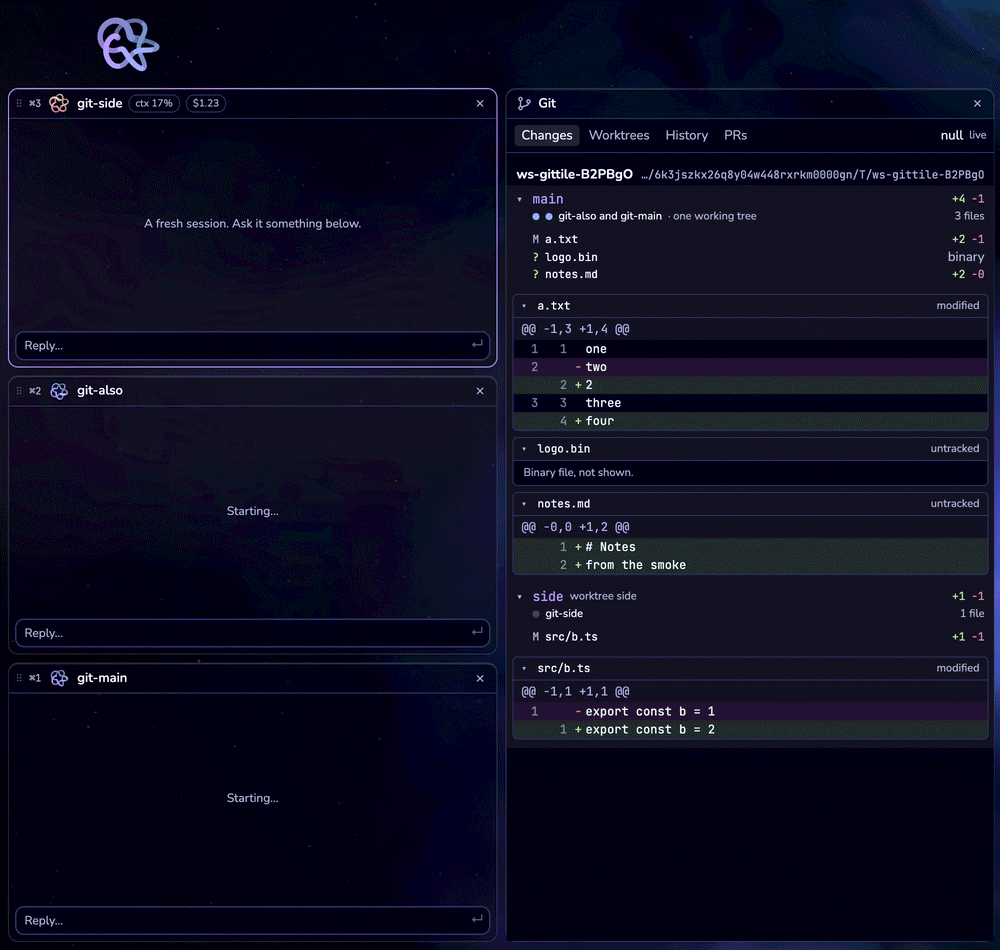
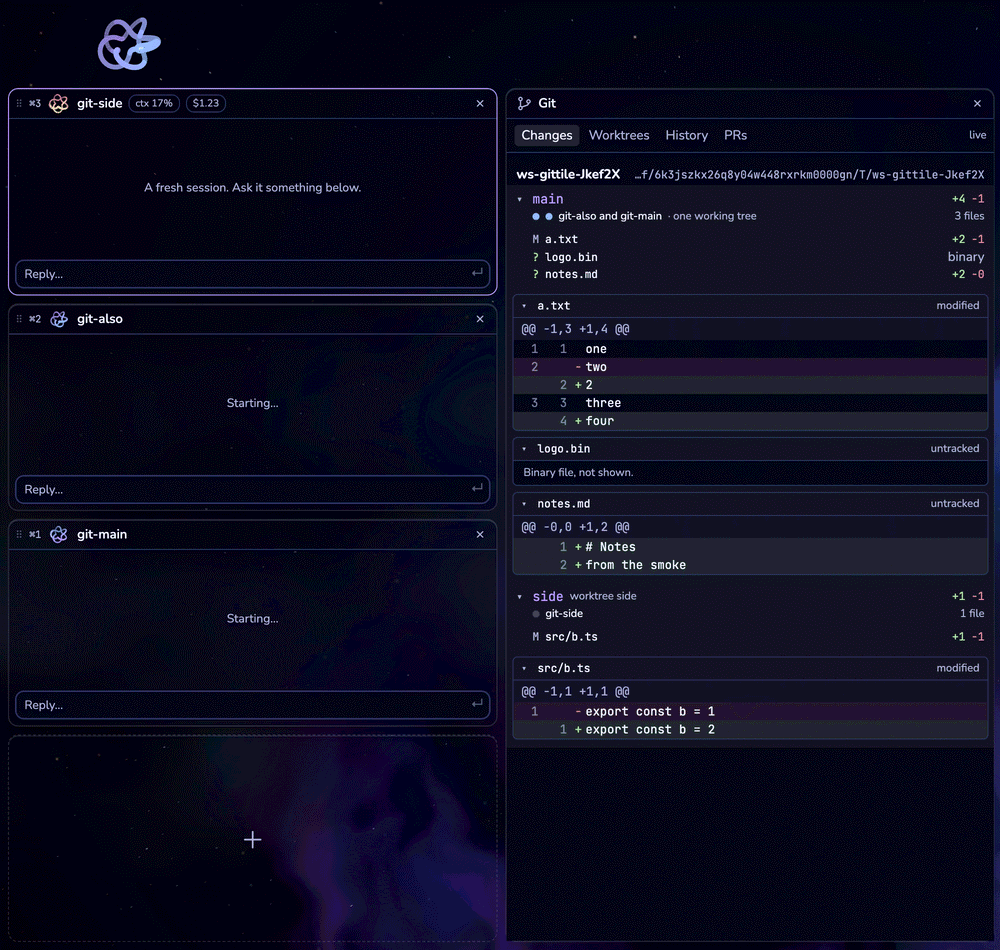
Docs: the UI fixes, and the README's and page's screenshots retaken with Wikipedia at the top right

diff --git a/docs/progress/2026-11-10-ui-fixes.md b/docs/progress/2026-11-10-ui-fixes.md
@@ -1,0 +1,171 @@
+# Progress: 10 Nov 2026, UI fixes from Colin's report
+
+One agent session, in a git worktree from `main` at `f788d03`, beside another doing packaging and
+the "Install update" button. Six things Colin reported: Wikipedia at the top right, the Wikipedia
+tile's needless "done", the window that would not drag (and drags that selected text across
+tiles), session tiles the height of the other column's tiles with deck's live preview, dropping
+images on a session, and the wheel over a tile scrolling nothing.
+
+Checks at the end: see the last section.
+
+## 1. Wikipedia at the top right
+
+- `src/shared/column.ts`: `DEFAULT_ORDER = ['wikipedia']` and `firstColumn(legacy)`. The tile
+  catalog is in folder order (git, reminders, wikipedia), so Wikipedia came last. A profile whose
+  settings have never held a column gets `order: ['wikipedia']`, so Wikipedia is first and the
+  rest follow in catalog order (`shared/order.ts` `arrange`). A profile that already has a column
+  in settings, or had one in the window's old localStorage, is left as it was.
+- `App.tsx`: the first-start path (settings had no column) goes through `firstColumn`.
+- `test/column.test.ts`: a new profile draws `wikipedia, git, reminders`; an old one is untouched.
+- Screenshots retaken: `docs/assets/app.png` (smoke's `WORKSHOP_SHOT_TILES`, with the BMW Mini of
+  17 Dec 2018 by the lead's temporary patch, reverted, not committed) and `docs/assets/changes.png`
+  (`WORKSHOP_SHOT_GIT`'s `pane-dark-window.png`), the latter because the session column changed.
+  Both show only the throwaway smoke profile: smoke session names and temp folders.
+
+## 2. The places editor's "done"
+
+- `tiles/wikipedia/dist/wiki.js`: `placesExit(places)`: the editor's own button is drawn only on
+  first run ("not now", which saves the empty list so the tile does not ask again); with a place
+  saved there is none. Esc and the × in the search line still close it.
+- `tile.js`: choosing a place (a click on a hit, or Enter) saves it AND closes the editor. ↑ and ×
+  on a saved place keep it open. `tile.css`: the units pill takes the free space instead.
+- Tested as shipped (`test/wikipedia.test.ts`), and in smoke: first run offers "not now", choosing
+  Lisbon closes the editor, reopened with a city saved it has no button, Esc closes it.
+
+## 3. The window's drag strip, and selection
+
+**Cause of the drag.** `.app` is the drag region and `.app > *` makes every child no-drag. The
+tile layer (`TileLayer.tsx`, the box the tile webviews are placed in) is a child of `.app` and is
+`position: fixed; inset: 0`, so it was a no-drag rectangle over the whole window, top bar
+included. A press in the bar then reached the page and started a text selection. Found by
+measuring: `-webkit-app-region` IS inherited in Chromium (checked in a bare Electron 44 window:
+children of a drag element compute `drag`), and the keyword `none` is not accepted; `initial` is.
+
+- `styles.css` (new block at the end): `.app > .tile-layer { -webkit-app-region: initial }`, so the
+  layer and the pages in it are no region at all; the pages lie over the columns, which are
+  no-drag. `.app > .topbar` drags between its controls and `.topbar > *` do not (deck's rule), so
+  the other agent's new button there is covered without a change.
+- **Selection** (same block): `body` is `user-select: none`; text is selectable in a conversation
+  (`.chat`), the preview pane's body, inputs, textareas and contenteditable. xterm handles its
+  own. A press in one conversation (`main.tsx`, a capture listener) marks it and puts
+  `ws-selecting` on the root until the button comes up; while it is there every other `.chat` is
+  `user-select: none`, so a drag cannot run its selection on into the tiles below.
+- Smoke (`src/main/smoke-ui.ts`): every element's computed `-webkit-app-region` laid over each
+  other in document order, as Electron builds the window's region (drag adds, no-drag takes
+  away), sampled every 12 px across the bar at y 44 and every 40 px at y 4 and y 80: the empty bar
+  is all drag, the bar's controls all no-drag, the center column no-drag, the tile layer `none`,
+  and `elementFromPoint` in the empty bar is `.app` itself. Computed `user-select` on the body, the
+  bar, both kinds of tile head, the launcher and the +: none; on a conversation, its prose, the
+  prompt bar and the launcher's field: text. A mousedown in one conversation makes the other
+  `none`, mouseup gives it back.
+- **Needs a real pointer:** the smoke window is hidden, so nobody has dragged the window or
+  selected across tiles with a mouse yet. Colin: drag by the empty bar, by the Knot at the top
+  left, and between the bar's buttons; drag-select in a conversation down into the next tile.
+
+## 4. Session tiles: a row tall, deck's preview
+
+Read: deck's `components/Tile.tsx`, `ChatView.tsx`, `Grid.tsx`, `FocusPane.tsx`, the `.tile` and
+`.chat` rules in its `styles.css`, and a picture of deck's window (read only).
+
+- **Height.** `.tile.session-tile` no longer sets its own height (it was a third of the column):
+  it takes `.tile`'s, one row of four, the same container-relative rule as the tile column, so
+  the two columns line up (smoke: every session tile within 1 px of a span-1 tile, both columns'
+  first tiles level). The session column's + is a row tall too, as deck's left + is.
+- **What it shows** was already deck's: the conversation tailed from the transcript (prompts,
+  prose as markdown, a line per tool call with ✓ ✗ or · while running), the working dots while
+  busy, "Your turn" / "Waiting for you" when it needs you, the status mark, title, model, context
+  and cost on the head, the prompt bar at the foot. What changed is the scroll: `ChatView` is
+  pinned to the latest while you leave it there (deck's `pinned` ref); scroll up for history and
+  it stays put until you come back within 24 px of the end. In a session tile the conversation
+  scrolls (`overflow-y: auto`, no scrollbar) and `overscroll-behavior: auto` lets the wheel go on
+  to the column at either end. deck's grid tile does not scroll at all (the wheel is the
+  column's); the task asked for history, and chaining keeps the column reachable.
+- **The focused session leaves the column** (deck: `Grid` gets `sessions={others}`), instead of
+  the line it used to leave. Why: its terminal is beside it in the center, so a tile would repeat
+  it, and a 30 px line breaks the two columns' rows. What the line carried moved to the center's
+  head (`FocusPane`): its ⌘ number, the status mark, name, usage, folder and the park ×. Its place
+  in a dragged order is kept (the order is by id), so it comes back where it was.
+- Kept: ⌘1–9 (keys follow `shortcutOrder` as before), drag to reorder (the grip, `useReorder`
+  passed through `useFileDrop` for non-file drags), image paste into the prompt bar.
+- Pictures: `after-columns.png` (two sessions as tiles, the launcher in the center),
+  `after-focus.png` (one focused, one a tile), `after-tiles.png`, `after-session.png`; deck for
+  comparison `deck.png`; before: `workshop-before-running.png` (Colin's running app) and the old
+  `docs/assets/app.png` / `changes.png` in git.
+
+## 5. Dropping images on a session
+
+Read: deck's `lib/drop.ts`, `useDropTarget.tsx`, its preload's `keepDroppedFile`, the window-level
+guard in its `main.tsx`, `Tile.tsx` and `FocusPane.tsx`.
+
+**Likely cause of "doesn't work".** A session tile took a drop, but only as a chip waiting in its
+prompt bar for ⏎; the focused session's terminal, the biggest target, took no drop at all, and
+nothing stopped an unclaimed file drop from trying to navigate the window.
+
+- `src/renderer/src/drop.ts` (after deck): `hasFiles`, `dropEffectFor` (claims an effect the
+  source allows, or a screenshot thumbnail's copy-only drag never fires), `keptPaths` (through
+  `keepDrop` and main's `drops.ts`: a Finder file's own path, a copy under `<profile>/drops/` for
+  a temp file, a picture's bytes from a browser or another app written there), `pastePaths` (one
+  bracketed paste, shell-escaped, as a terminal does) and `useFileDrop` (counted enter/leave, a
+  non-file drag passed on to the column's reorder).
+- Where a drop lands: the terminal in the center (`FocusPane`) pastes the paths into it; a
+  session tile's conversation or head pastes into that session and brings it into focus (deck's
+  Tile); a tile's prompt bar keeps it as a chip, sent with the text on ⏎ (track E's flow).
+- `main.tsx`: a file dragged over or dropped anywhere else is `preventDefault`ed (only file
+  drags, so text still drops into fields). The tile webviews let a file drag through only during a
+  reorder; a Finder drag over a tile page goes to that page, which has no file access (sandbox).
+- Not handled: a browser drag that carries only a URL and no file (no `Files` type). deck does not
+  either; fetching it would put the network in core's window.
+- Smoke: synthetic `DataTransfer` drops of a PNG on a tile's prompt bar (a chip, the launcher
+  still in the center; sent, the stand-in CLI's screen shows the `drops/` path), on another
+  tile's conversation (pasted into that session, which comes into focus with its terminal), on the
+  terminal host (pasted), and on the top bar (claimed, the window stays on its page).
+- **Needs a real pointer:** a real Finder drag, a screenshot thumbnail, and an image dragged out
+  of a browser, onto each of the three.
+
+## 6. The wheel over a tile
+
+**Cause.** deck's rule is that a tile never eats the wheel. In workshop each tile is a webview laid
+over the column, so the wheel went into the page and never reached `.tile-scroll`; only core's tile
+heads let it through.
+
+- `src/preload/tile.ts`: a passive `wheel` listener. If nothing from the target up (or the page's
+  root) can scroll that way, or what can is at its end, the delta (lines and pages turned into px)
+  is summed and sent once per animation frame (a 50 ms timer covers a page that is not drawing).
+  Not sent: a pinch (`ctrlKey`), a mostly sideways wheel, a wheel the page cancelled (checked when
+  the frame flushes), and anything outside `tile` view.
+- `src/main/index.ts` (`CH.wheel`): checked like every bridge call (`guestOf`: a live tile, its
+  top frame, its own origin), only in `tile` view, a finite number clamped to ±4000, then
+  `CH.tileWheel` to core's window. `App.tsx`: the tile column's `scrollTop += dy`. No smoothing
+  is added: a trackpad's deltas (momentum included) already are the motion, one step a frame.
+- `template/CLAUDE.md`, "Rules of the sandbox": the column takes the wheel at the page's edge;
+  `preventDefault` keeps it; pinch is never passed; pane and overlay keep every wheel.
+- The session column: its conversations chain to the column at their ends (section 4).
+- Smoke: a wheel over Wikipedia (nothing to scroll) scrolls the column; a ctrl-wheel does not; a
+  wheel in a scrolling box in the probe page stays in the page, and at the box's (and page's) end
+  the column takes it.
+- **Needs a real pointer:** a trackpad flick over a tile, to feel the momentum hand-off.
+
+## For the lead: CLAUDE.md lines to change
+
+- "What exists", Layout: "The tile column is four rows tall: a tile is one row ... ↕ on its head
+  steps it taller." add: "A new profile's column starts with Wikipedia at the top
+  (`shared/column.ts` `DEFAULT_ORDER`). The left column's session tiles are one row too, so the
+  two columns line up. A wheel a tile's page cannot use scrolls the column (`preload/tile.ts`)."
+- "What exists", Session tiles: replace "The focused session's terminal is in the center and its
+  tile gives way to a line" with "The focused session's terminal is in the center and its tile
+  leaves the column, as in deck; the center's head has its ⌘ number and park ×. A conversation
+  is pinned to the latest and scrolls up for history." Add: "Files dropped on a session
+  (`drop.ts`): on the terminal or a tile they are pasted as paths, on a prompt bar they wait as a
+  chip."
+- §7, "Things deck learned the hard way": add "`-webkit-app-region` is inherited and `none` is
+  not a keyword Chromium takes; reset with `initial`. A full-window fixed layer under `.app > *`
+  silently made the whole window no-drag."
+- §5 "The sandbox": add "The wheel at a page's edge is the column's (preload/tile.ts), as
+  nested scrolling in a page."
+
+## Counts
+
+`npm run typecheck` clean. `npm test` 400 passed (397 before: two for the first column, one for
+the places editor's way out). `npm run smoke` 385 passed, 0 failed, run in the foreground with the
+patch for the README picture reverted (the picture run also passed 385). The smoke log of the
+last run is `smoke-ui.log` in the worktree (not committed).
